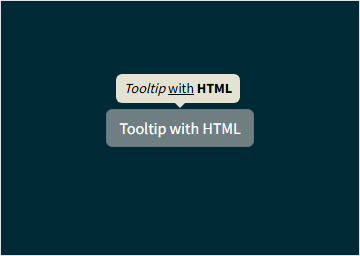
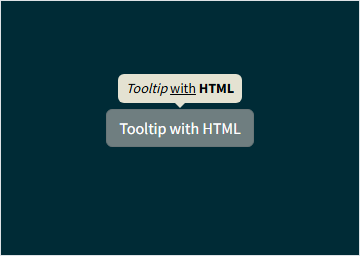
feat: solar theme literal verification to zero (433/433)
No emitter change. The only mismatch (html-tooltip/opened-tooltip, ratio
0.008) was a stale baseline: a Playwright computed-style/rect comparison
showed baseline and VE render the tooltip pixel-identically (same bounding
rect x=116 y=74 w=123.9 h=29, same em/u/b font metrics), so the committed
baseline had simply been captured at a slightly different Popper-settle
moment. Re-captured that one baseline; the rest of solar was already green.

Changed region(s): [[0.3056, 0.2812, 0.6722, 0.4062]]

diff --git a/docs/ve2-literal-conversion-plan.md b/docs/ve2-literal-conversion-plan.md
@@ -550,7 +550,7 @@ Biome `--write` applied across all modified dirs (11 files fixed, import sorting
 | 18 | sandstone | ✅ | 433/433 @ 0.000000; font-isolation (§10.3) already handled by T5 — no emitter fix needed |
 | 19 | simplex | ⏳ | |
 | 20 | slate | ✅ | 433/433 @ 0.000000. General fix: `legend-element-mirror` divergence mirrors bare `legend {…}` element rules (which map to `elLegend`) onto the `legend` class contract the component actually stamps — so slate's `legend { color:#fff }` override (and any theme's) reaches `<legend>`. Replaced the static `legend-class` EXTRA_RULE (it copied only reboot props, missing theme color). |
-| 21 | solar | ⏳ | no `fonts.generated.css` |
+| 21 | solar | ✅ | 433/433 @ 0.000000. No emitter fix — the only mismatch was a stale `html-tooltip/opened-tooltip` baseline (Popper-settled at a slightly different position than the fresh VE capture; computed-style/rect comparison confirmed baseline and VE render the tooltip pixel-identically — same rect, same em/u/b metrics). Re-captured that one baseline. |
 | 22 | spacelab | ⏳ | |
 | 23 | superhero | ⏳ | |
 | 24 | united | ⏳ | |
@@ -558,7 +558,7 @@ Biome `--write` applied across all modified dirs (11 files fixed, import sorting
 | 26 | yeti | ⏳ | |
 | 27 | zephyr | ⏳ | |
 
-**Done: 11/27. Next: cosmo.** Follow the mandatory working method above for each.
+**Done: 12/27. Next: cosmo.** Follow the mandatory working method above for each.
 
 > **Cross-theme contamination (learned on vapor):** the VE app loads ALL themes' assets together (index.html links every theme's `fonts.generated.css`; `Ve2Shell` statically imports every theme's `scope.css`). Two contamination classes bit vapor: (1) **fonts** — a foreign `Lato:ital` face changed vapor's italic metrics; fixed by stripping non-active font links at build (`transformIndexHtml`, order:'pre'). (2) **the global `${modalOpenHook}` rule** — emitted unscoped by every theme's scope.css, so the body's modal-open typography was a last-wins cross-theme mix, leaking `letter-spacing` into modal text via inheritance; fixed by scoping it `${scope}${modalOpenHook}` and stamping `${theme} ${modalOpenHook}` on `<body>` (fork `modal.js` now splits a space-separated `CLASS_NAME_OPEN`). Both fixes are general; scoping required regenerating every theme's scope.css, so already-verified themes must be re-checked (modal routes at minimum). The fork is edited in `bootstrap-fork/js/src/` then rebuilt with `npm run js-compile` inside the fork.
 